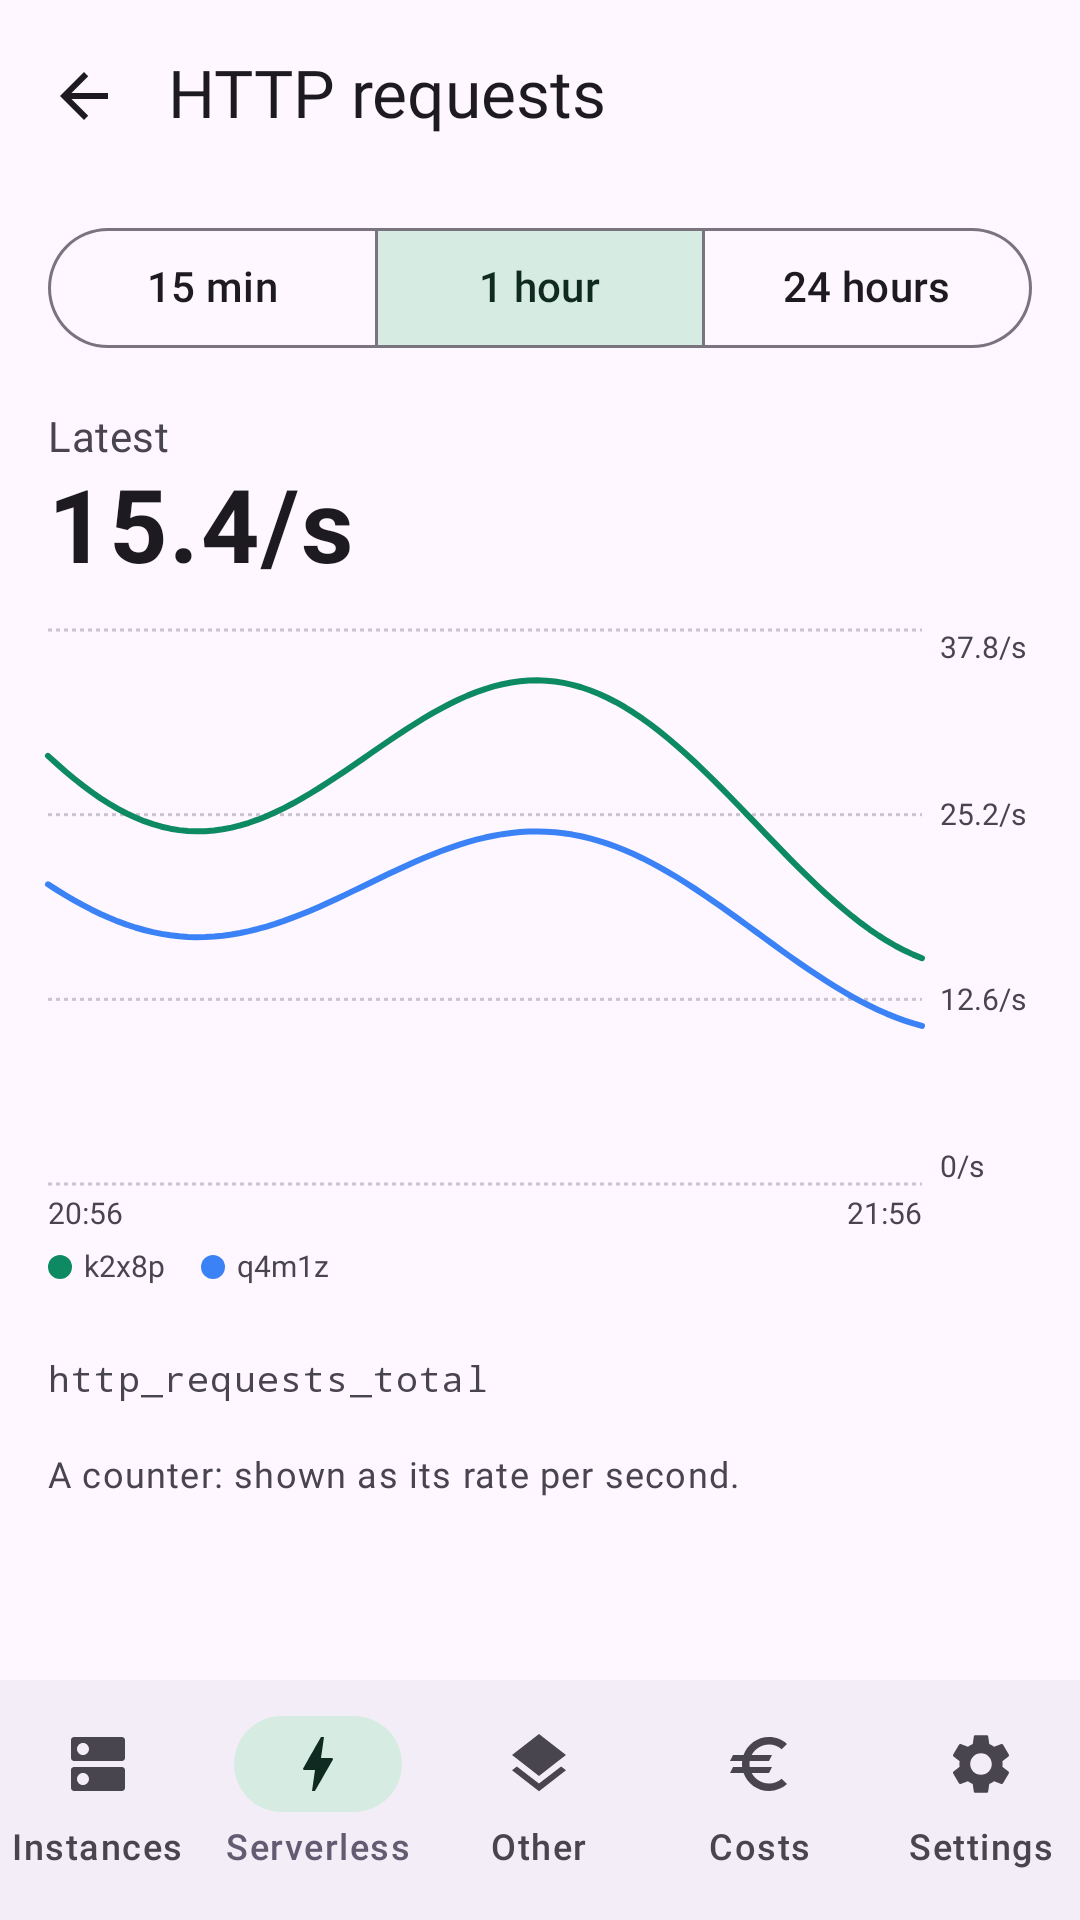
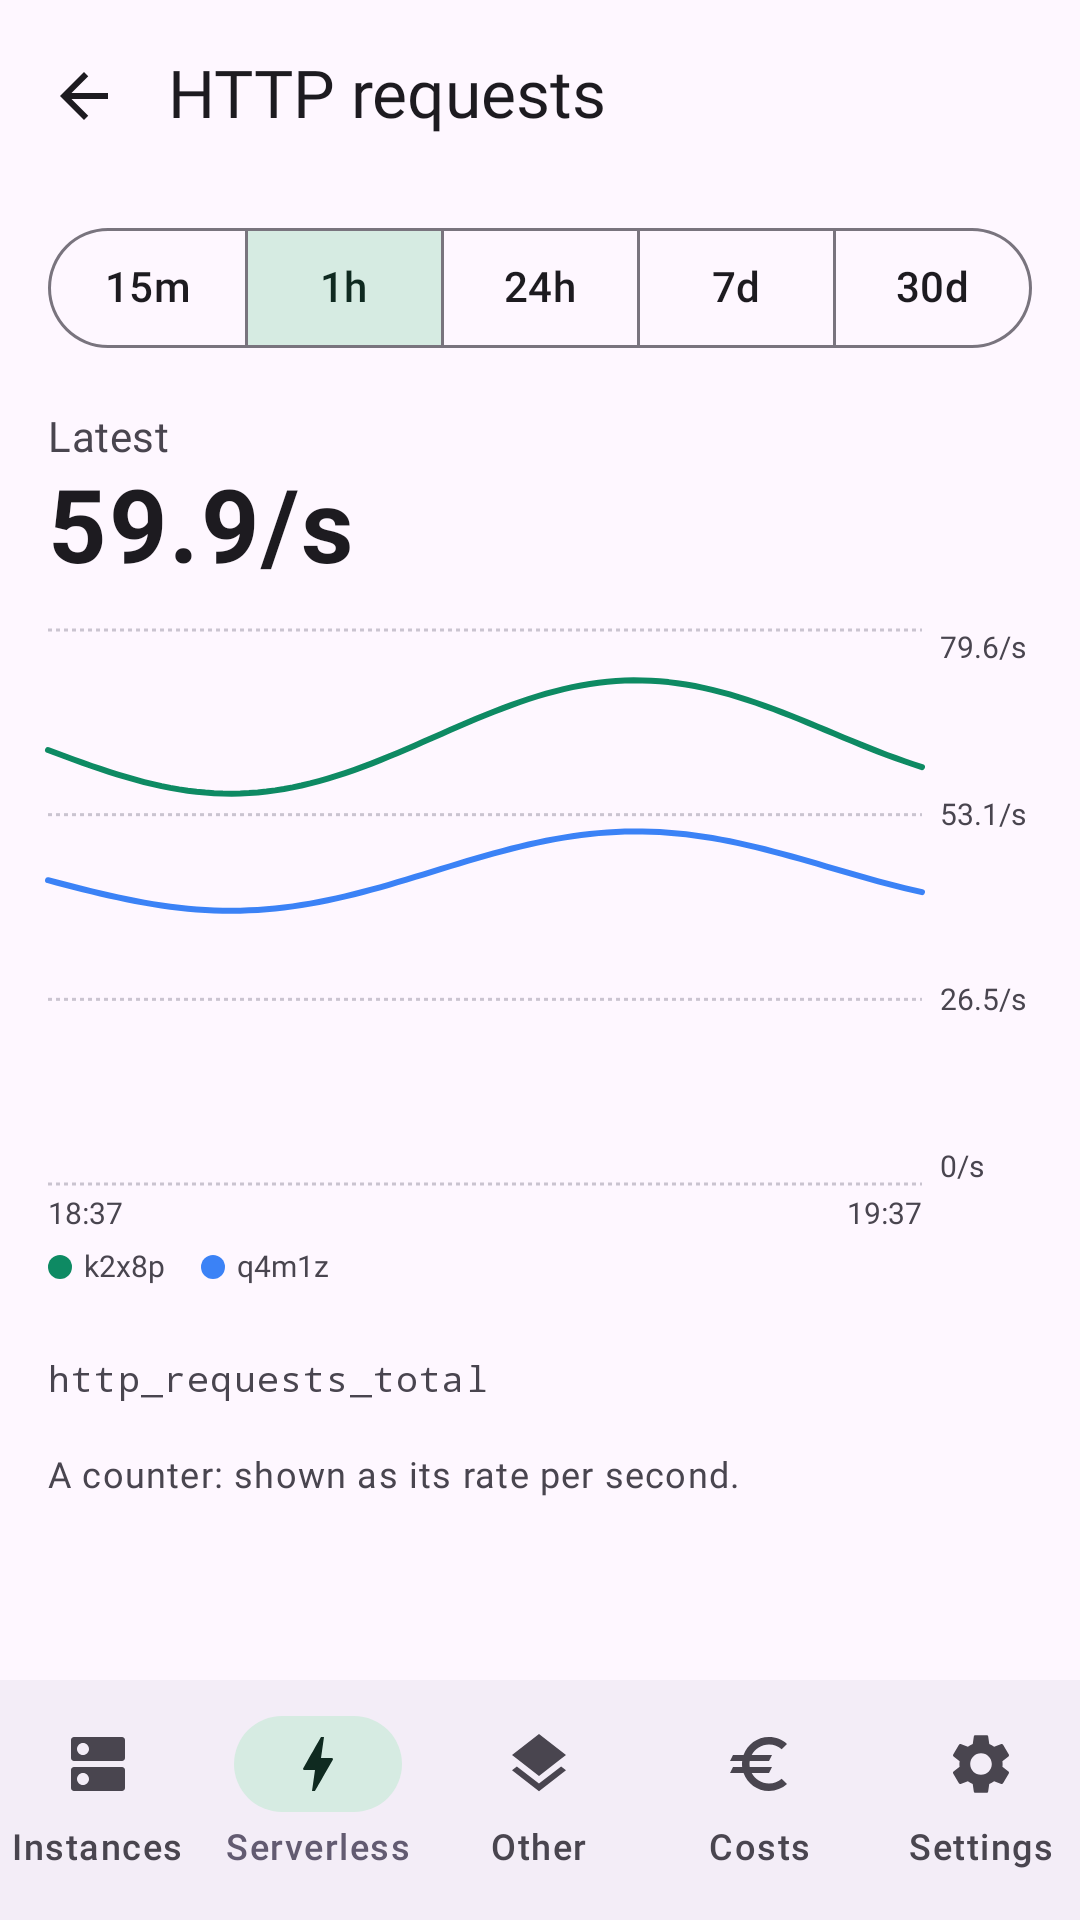
Longer log and metric periods, confirming stop and reboot, sharper store text
Both apps:
- Logs and metrics also cover 7 and 30 days. A counter's rate now spans at
  least one step between points, so a long period skips no samples; logs
  and the Android chart axis show the date beyond a day.
- An optional setting asks the phone's owner to confirm a stop or reboot:
  Face ID or the passcode on the iPhone, a fingerprint, face or the screen
  lock on Android (androidx.biometric).
- The App Store and Play texts lead with logs and with every organization
  side by side, and mention the confirmation.

The Play screenshots are re-recorded with the new period picker.

Claude-Session: https://claude.ai/code/session_01Aq7Zj6RqGdWPVMmSGWa5sj

diff --git a/android/app/src/main/kotlin/com/pvd/scwcontrolroom/model/Confirm.kt b/android/app/src/main/kotlin/com/pvd/scwcontrolroom/model/Confirm.kt
@@ -1,0 +1,52 @@
+package com.pvd.scwcontrolroom.model
+
+import android.content.Context
+import androidx.biometric.BiometricManager.Authenticators.BIOMETRIC_WEAK
+import androidx.biometric.BiometricManager.Authenticators.DEVICE_CREDENTIAL
+import androidx.biometric.BiometricPrompt
+import androidx.core.content.ContextCompat
+import androidx.fragment.app.FragmentActivity
+import kotlin.coroutines.resume
+import kotlinx.coroutines.suspendCancellableCoroutine
+
+/** The app's own small settings, as the iPhone app keeps them in UserDefaults. */
+fun appPrefs(context: Context) = context.getSharedPreferences("app", Context.MODE_PRIVATE)
+
+/** Whether stop and reboot first ask for a fingerprint, face or the screen lock. Off by default. */
+const val AUTH_BEFORE_ACTIONS = "authBeforeActions"
+
+sealed interface Confirmation {
+    data object Confirmed : Confirmation
+    data object Cancelled : Confirmation
+    data class Failed(val message: String) : Confirmation
+}
+
+/**
+ * Asks the phone's owner to confirm with a fingerprint, their face or the
+ * screen lock, as the iPhone app asks for Face ID or the passcode.
+ */
+suspend fun confirmOwner(activity: FragmentActivity, title: String): Confirmation =
+    suspendCancellableCoroutine { continuation ->
+        val prompt = BiometricPrompt(activity, ContextCompat.getMainExecutor(activity),
+            object : BiometricPrompt.AuthenticationCallback() {
+                override fun onAuthenticationSucceeded(result: BiometricPrompt.AuthenticationResult) {
+                    if (continuation.isActive) continuation.resume(Confirmation.Confirmed)
+                }
+
+                override fun onAuthenticationError(code: Int, message: CharSequence) {
+                    val cancelled = code == BiometricPrompt.ERROR_USER_CANCELED ||
+                        code == BiometricPrompt.ERROR_NEGATIVE_BUTTON || code == BiometricPrompt.ERROR_CANCELED
+                    if (continuation.isActive) {
+                        continuation.resume(if (cancelled) Confirmation.Cancelled else Confirmation.Failed(message.toString()))
+                    }
+                }
+                // A finger that does not match is not the end: the prompt stays open.
+            })
+        prompt.authenticate(
+            BiometricPrompt.PromptInfo.Builder()
+                .setTitle(title)
+                .setAllowedAuthenticators(BIOMETRIC_WEAK or DEVICE_CREDENTIAL)
+                .build()
+        )
+        continuation.invokeOnCancellation { prompt.cancelAuthentication() }
+    }

diff --git a/android/app/src/main/kotlin/com/pvd/scwcontrolroom/ui/Settings.kt b/android/app/src/main/kotlin/com/pvd/scwcontrolroom/ui/Settings.kt
@@ -51,7 +51,12 @@ import com.pvd.scwcontrolroom.kit.ProProducts
 import com.pvd.scwcontrolroom.kit.ScalewayApi
 import com.pvd.scwcontrolroom.kit.Zone
 import com.pvd.scwcontrolroom.kit.validateKey
+import com.pvd.scwcontrolroom.model.AUTH_BEFORE_ACTIONS
 import com.pvd.scwcontrolroom.model.FreeProStore
+import com.pvd.scwcontrolroom.model.appPrefs
+import androidx.compose.foundation.selection.toggleable
+import androidx.compose.material3.Switch
+import androidx.compose.ui.semantics.Role
 import com.pvd.scwcontrolroom.model.Links
 import com.pvd.scwcontrolroom.model.ProPlan
 import kotlinx.coroutines.launch
@@ -75,6 +80,20 @@ fun SettingsScreen() {
             LinkRow("Add API key") { showAddKey = true }
             if (model.keys.none { it.isDemo }) LinkRow("Try the demo") { scope.launch { model.add(ApiKey.demo) } }
             Footnote("Keys are stored encrypted on this phone and sent only to Scaleway. Tap a key to remove it.")
+
+            SectionHeader("Security")
+            var authBeforeActions by remember { mutableStateOf(appPrefs(context).getBoolean(AUTH_BEFORE_ACTIONS, false)) }
+            Row(
+                Modifier.fillMaxWidth().toggleable(authBeforeActions, role = Role.Switch) {
+                    authBeforeActions = it
+                    appPrefs(context).edit().putBoolean(AUTH_BEFORE_ACTIONS, it).apply()
+                }.padding(horizontal = 16.dp, vertical = 12.dp),
+                verticalAlignment = Alignment.CenterVertically,
+            ) {
+                Text("Confirm stop and reboot with your fingerprint, face or screen lock",
+                     style = MaterialTheme.typography.bodyLarge, modifier = Modifier.weight(1f).padding(end = 16.dp))
+                Switch(authBeforeActions, null)
+            }
 
             SectionHeader("Pro")
             if (pro == FreeProStore) {
@@ -201,7 +220,7 @@ fun AddKeySheet(onDismiss: () -> Unit) {
 private val features = listOf(
     "Serverless" to "Your containers, functions and jobs in every region.",
     "Everything else" to "Databases, volumes, IPs, domains and more, grouped and searchable.",
-    "Logs and metrics" to "From Cockpit, for serverless apps and instances: the last 15 minutes, hour or day.",
+    "Logs and metrics" to "From Cockpit, for serverless apps and instances: from the last 15 minutes up to 30 days.",
     "Cost details" to "Costs by category and by project, and the months before.",
     "More keys" to "Every organization and project you work on, side by side.",
 )

diff --git a/android/app/src/main/kotlin/com/pvd/scwcontrolroom/ui/Instances.kt b/android/app/src/main/kotlin/com/pvd/scwcontrolroom/ui/Instances.kt
@@ -47,6 +47,11 @@ import com.pvd.scwcontrolroom.kit.StateFilter
 import com.pvd.scwcontrolroom.kit.filterServers
 import com.pvd.scwcontrolroom.kit.formatMoney
 import com.pvd.scwcontrolroom.kit.shouldAskForReview
+import com.pvd.scwcontrolroom.model.AUTH_BEFORE_ACTIONS
+import com.pvd.scwcontrolroom.model.Confirmation
+import com.pvd.scwcontrolroom.model.appPrefs
+import com.pvd.scwcontrolroom.model.confirmOwner
+import androidx.fragment.app.FragmentActivity
 import kotlinx.coroutines.launch
 
 @Composable
@@ -200,7 +205,21 @@ fun InstanceDetailScreen(id: String) {
                      else "It will be unreachable for a moment.")
             },
             confirmButton = {
-                TextButton(onClick = { confirming = null; run(action) }) {
+                TextButton(onClick = {
+                    confirming = null
+                    // With the setting on, the phone's owner confirms first.
+                    if (!appPrefs(context).getBoolean(AUTH_BEFORE_ACTIONS, false)) {
+                        run(action)
+                    } else scope.launch {
+                        val owner = activity as? FragmentActivity
+                        val title = if (stop) "Stop ${server.name}" else "Reboot ${server.name}"
+                        when (val result = owner?.let { confirmOwner(it, title) } ?: Confirmation.Confirmed) {
+                            Confirmation.Confirmed -> run(action)
+                            Confirmation.Cancelled -> {}
+                            is Confirmation.Failed -> failure = result.message
+                        }
+                    }
+                }) {
                     Text(if (stop) "Stop" else "Reboot", color = MaterialTheme.colorScheme.error)
                 }
             },
@@ -240,7 +259,7 @@ private fun ActionButton(
 
 /** Counts a successful start or stop; true when it is time to ask for a rating. */
 private fun countSuccess(context: Context): Boolean {
-    val prefs = context.getSharedPreferences("app", Context.MODE_PRIVATE)
+    val prefs = appPrefs(context)
     val count = prefs.getInt("successfulActions", 0) + 1
     prefs.edit().putInt("successfulActions", count).apply()
     return shouldAskForReview(count)

diff --git a/ios/ControlRoom/Views/InstanceDetailView.swift b/ios/ControlRoom/Views/InstanceDetailView.swift
@@ -1,4 +1,5 @@
 import ControlRoomKit
+import LocalAuthentication
 import StoreKit
 import SwiftUI
 
@@ -9,6 +10,7 @@ struct InstanceDetailView: View {
     @State private var pending: ServerAction?
     @State private var confirming: ServerAction?
     @State private var failure: String?
+    @AppStorage("authBeforeActions") private var authBeforeActions = false
 
     var body: some View {
         if let listed = model.servers.first(where: { $0.id == id }) {
@@ -61,7 +63,9 @@ struct InstanceDetailView: View {
         .confirmationDialog(confirming == .poweroff ? "Stop this instance?" : "Reboot this instance?",
                             isPresented: Binding(get: { confirming != nil }, set: { if !$0 { confirming = nil } }),
                             titleVisibility: .visible, presenting: confirming) { action in
-            Button(action == .poweroff ? "Stop" : "Reboot", role: .destructive) { run(action, listed) }
+            Button(action == .poweroff ? "Stop" : "Reboot", role: .destructive) {
+                Task { if await ownerConfirms(action, listed) { run(action, listed) } }
+            }
         } message: { action in
             Text(action == .poweroff
                  ? "Compute billing stops. Volumes and flexible IPs stay, and are still billed."
@@ -97,6 +101,21 @@ struct InstanceDetailView: View {
             } catch {
                 failure = error.localizedDescription
             }
+        }
+    }
+
+    /// With the setting on, the iPhone's owner confirms a stop or reboot with
+    /// Face ID, Touch ID or the passcode first.
+    private func ownerConfirms(_ action: ServerAction, _ listed: Listed<Server>) async -> Bool {
+        guard authBeforeActions else { return true }
+        let reason = "\(action == .poweroff ? "Stop" : "Reboot") \(listed.item.name)"
+        do {
+            return try await LAContext().evaluatePolicy(.deviceOwnerAuthentication, localizedReason: reason)
+        } catch let error as LAError where [LAError.Code.userCancel, .appCancel, .systemCancel].contains(error.code) {
+            return false
+        } catch {
+            failure = error.localizedDescription
+            return false
         }
     }
 

diff --git a/android/app/src/main/kotlin/com/pvd/scwcontrolroom/ui/Chart.kt b/android/app/src/main/kotlin/com/pvd/scwcontrolroom/ui/Chart.kt
@@ -36,6 +36,7 @@ import java.time.ZoneId
 import java.time.format.DateTimeFormatter
 
 private val axisTime = DateTimeFormatter.ofPattern("HH:mm").withZone(ZoneId.systemDefault())
+private val axisDay = DateTimeFormatter.ofPattern("d MMM", java.util.Locale.UK).withZone(ZoneId.systemDefault())
 
 /**
  * A line per instance; a single line also gets a shaded area. Values on the
@@ -75,8 +76,10 @@ fun MetricChart(series: List<MetricSeries>, name: String, modifier: Modifier = M
                 val text = measurer.measure(formatMetric(tick, name), labelStyle)
                 drawText(text, topLeft = Offset(width + 6.dp.toPx(), (y(tick) - text.size.height / 2f).coerceIn(0f, height - text.size.height)))
             }
-            drawText(measurer.measure(axisTime.format(start), labelStyle), topLeft = Offset(0f, height + 4.dp.toPx()))
-            val endLabel = measurer.measure(axisTime.format(end), labelStyle)
+            // Over more than a day the dates say more than the times.
+            val axis = if (span > 86_400_000) axisDay else axisTime
+            drawText(measurer.measure(axis.format(start), labelStyle), topLeft = Offset(0f, height + 4.dp.toPx()))
+            val endLabel = measurer.measure(axis.format(end), labelStyle)
             drawText(endLabel, topLeft = Offset(width - endLabel.size.width, height + 4.dp.toPx()))
 
             series.forEachIndexed { index, line ->

diff --git a/android/app/src/main/kotlin/com/pvd/scwcontrolroom/ui/Logs.kt b/android/app/src/main/kotlin/com/pvd/scwcontrolroom/ui/Logs.kt
@@ -24,6 +24,8 @@ import java.time.ZoneId
 import java.time.format.DateTimeFormatter
 
 private val timeFormat = DateTimeFormatter.ofPattern("HH:mm:ss").withZone(ZoneId.systemDefault())
+/** Beyond a day, the time alone does not say which day. */
+private val dayTimeFormat = DateTimeFormatter.ofPattern("d MMM HH:mm:ss", java.util.Locale.UK).withZone(ZoneId.systemDefault())
 
 @Composable
 fun LogsScreen(kind: LogKind, id: String) {
@@ -60,7 +62,7 @@ fun LogsScreen(kind: LogKind, id: String) {
                 if (loading && result == null) item { Loading() }
                 itemsIndexed(result?.lines.orEmpty()) { _, line ->
                     Column(Modifier.fillMaxWidth().padding(horizontal = 16.dp, vertical = 6.dp)) {
-                        Text(timeFormat.format(line.time), style = MaterialTheme.typography.labelSmall,
+                        Text((if (minutes > 1440) dayTimeFormat else timeFormat).format(line.time), style = MaterialTheme.typography.labelSmall,
                              color = MaterialTheme.colorScheme.onSurfaceVariant)
                         SelectionContainer {
                             Text(line.line, fontFamily = FontFamily.Monospace, fontSize = 13.sp, lineHeight = 17.sp)

diff --git a/ios/Packages/ControlRoomKit/Sources/ControlRoomKit/Logic.swift b/ios/Packages/ControlRoomKit/Sources/ControlRoomKit/Logic.swift
@@ -155,11 +155,13 @@ public func isCounter(_ name: String) -> Bool {
 /// PromQL for one metric of one resource, one series per instance: the rate
 /// per second for a counter, the average for anything else. The instance
 /// count is one series, 0 where there are no samples (scaled to zero) so the
-/// chart does not bridge those gaps.
-public func metricQuery(_ name: String, selector: String) -> String {
+/// chart does not bridge those gaps. A counter's rate spans at least one
+/// `step` (seconds between points), so a long period skips no samples.
+public func metricQuery(_ name: String, selector: String, step: Int = 15) -> String {
     let selector = name + selector
     if isInstanceCount(name) { return "sum(\(selector)) or vector(0)" }
-    return isCounter(name) ? "sum by (resource_instance) (rate(\(selector)[5m]))" : "avg by (resource_instance) (\(selector))"
+    let window = step > 300 ? "\(step)s" : "5m"
+    return isCounter(name) ? "sum by (resource_instance) (rate(\(selector)[\(window)]))" : "avg by (resource_instance) (\(selector))"
 }
 
 /// Metrics worth a chart: `_info` metrics, and Scaleway's serverless

diff --git a/android/kit/src/main/kotlin/com/pvd/scwcontrolroom/kit/Logic.kt b/android/kit/src/main/kotlin/com/pvd/scwcontrolroom/kit/Logic.kt
@@ -152,12 +152,14 @@ fun isCounter(name: String): Boolean =
  * PromQL for one metric of one resource, one series per instance: the rate
  * per second for a counter, the average for anything else. The instance
  * count is one series, 0 where there are no samples (scaled to zero) so the
- * chart does not bridge those gaps.
+ * chart does not bridge those gaps. A counter's rate spans at least one
+ * [step] (seconds between points), so a long period skips no samples.
  */
-fun metricQuery(name: String, selector: String): String {
+fun metricQuery(name: String, selector: String, step: Int = 15): String {
     val s = name + selector
     if (isInstanceCount(name)) return "sum($s) or vector(0)"
-    return if (isCounter(name)) "sum by (resource_instance) (rate($s[5m]))" else "avg by (resource_instance) ($s)"
+    val window = if (step > 300) "${step}s" else "5m"
+    return if (isCounter(name)) "sum by (resource_instance) (rate($s[$window]))" else "avg by (resource_instance) ($s)"
 }
 
 /**

diff --git a/ios/ControlRoom/Views/LogsView.swift b/ios/ControlRoom/Views/LogsView.swift
@@ -37,7 +37,10 @@ struct LogsView: View {
 
             ForEach(Array((result?.lines ?? []).enumerated()), id: \.offset) { _, line in
                 VStack(alignment: .leading, spacing: 2) {
-                    Text(line.time, format: .dateTime.hour().minute().second()).font(.caption).foregroundStyle(.secondary)
+                    // Beyond a day, the time alone does not say which day.
+                    Text(line.time, format: minutes > 1440 ? .dateTime.day().month().hour().minute().second()
+                                                           : .dateTime.hour().minute().second())
+                        .font(.caption).foregroundStyle(.secondary)
                     Text(line.line).font(.system(size: 13, design: .monospaced)).textSelection(.enabled)
                 }
             }

diff --git a/ios/ControlRoom/Views/Components.swift b/ios/ControlRoom/Views/Components.swift
@@ -64,10 +64,12 @@ struct CommandBlock: View {
     }
 }
 
-/// 15 minutes, an hour or a day: the period of a logs or metrics screen.
+/// From 15 minutes to 30 days: the period of a logs or metrics screen. What a
+/// long period shows depends on how long Cockpit keeps the data.
 struct PeriodPicker: View {
     @Binding var minutes: Int
-    private static let ranges = [(label: "15 min", minutes: 15), (label: "1 hour", minutes: 60), (label: "24 hours", minutes: 1440)]
+    private static let ranges = [(label: "15m", minutes: 15), (label: "1h", minutes: 60), (label: "24h", minutes: 1440),
+                                 (label: "7d", minutes: 10080), (label: "30d", minutes: 43200)]
 
     var body: some View {
         Picker("Period", selection: $minutes) {

diff --git a/ios/ControlRoom/Views/SettingsView.swift b/ios/ControlRoom/Views/SettingsView.swift
@@ -9,6 +9,7 @@ struct SettingsView: View {
     @State private var showPro = false
     @State private var showManage = false
     @State private var removing: APIKey?
+    @AppStorage("authBeforeActions") private var authBeforeActions = false
 
     var body: some View {
         List {
@@ -27,6 +28,12 @@ struct SettingsView: View {
                 Text("API keys")
             } footer: {
                 Text("Keys are stored in the iPhone keychain and sent only to Scaleway. Tap a key to remove it.")
+            }
+
+            Section {
+                Toggle("Confirm stop and reboot with Face ID or passcode", isOn: $authBeforeActions)
+            } header: {
+                Text("Security")
             }
 
             Section {

diff --git a/android/app/src/main/kotlin/com/pvd/scwcontrolroom/ui/Components.kt b/android/app/src/main/kotlin/com/pvd/scwcontrolroom/ui/Components.kt
@@ -228,10 +228,13 @@ fun <T> Segmented(options: List<T>, selected: T, label: (T) -> String, onSelect:
     }
 }
 
-/** 15 minutes, an hour or a day: the period of a logs or metrics screen. */
+/**
+ * From 15 minutes to 30 days: the period of a logs or metrics screen. What a
+ * long period shows depends on how long Cockpit keeps the data.
+ */
 @Composable
 fun PeriodPicker(minutes: Int, onSelect: (Int) -> Unit) {
-    val ranges = listOf(15 to "15 min", 60 to "1 hour", 1440 to "24 hours")
+    val ranges = listOf(15 to "15m", 60 to "1h", 1440 to "24h", 10080 to "7d", 43200 to "30d")
     Segmented(ranges.map { it.first }, minutes, { m -> ranges.first { it.first == m }.second }, onSelect)
 }
 
